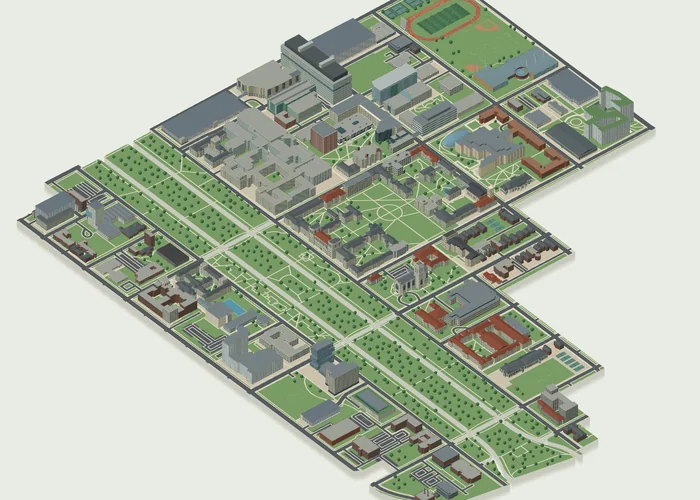
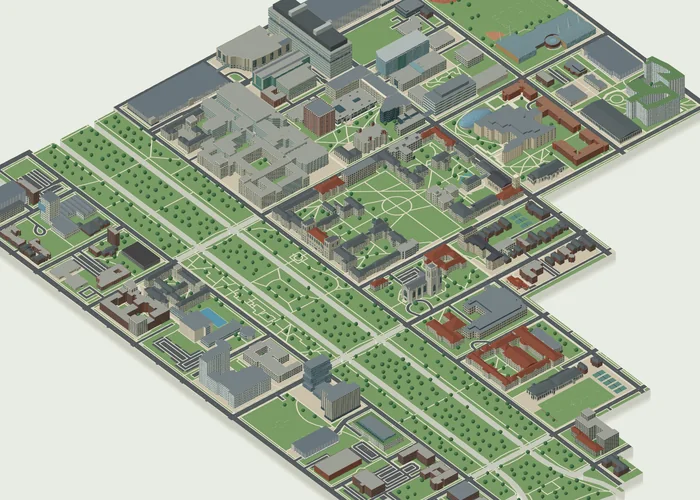
Release 26.10.18.5

diff --git a/index.html b/index.html
@@ -1,7 +1,7 @@
 <!doctype html>
 <html lang="en"><head><meta charset="utf-8"><meta name="viewport" content="width=device-width,initial-scale=1"><meta name="color-scheme" content="light"><meta name="theme-color" content="#f7f8f8">
 <title>Campus 3D Models | Explore Four University Campuses</title><meta name="description" content="Explore UChicago, UMich, UW and UC Santa Barbara through interactive 3D campus models. Discover architecture, landscapes, and layered Rhino and 3DS downloads."><meta name="robots" content="index,follow,max-image-preview:large"><link rel="canonical" href="https://arch.songming.org/">
-<meta property="og:type" content="website"><meta property="og:site_name" content="Campus 3D Models"><meta property="og:title" content="Campus 3D Models"><meta property="og:description" content="Four campuses. A different perspective. Explore UChicago, UMich, UW and UC Santa Barbara in 3D."><meta property="og:url" content="https://arch.songming.org/"><meta property="og:locale" content="en_US"><meta property="og:locale:alternate" content="zh_CN"><meta property="og:image" content="https://arch.songming.org/assets/images/social-preview.png?v=26.10.18.4"><meta property="og:image:width" content="1200"><meta property="og:image:height" content="630"><meta property="og:image:alt" content="Four architectural campus model previews from the Campus 3D Models collection."><meta name="twitter:card" content="summary_large_image"><meta name="twitter:title" content="Campus 3D Models"><meta name="twitter:description" content="Four campuses. A different perspective."><meta name="twitter:image" content="https://arch.songming.org/assets/images/social-preview.png?v=26.10.18.4">
+<meta property="og:type" content="website"><meta property="og:site_name" content="Campus 3D Models"><meta property="og:title" content="Campus 3D Models"><meta property="og:description" content="Four campuses. A different perspective. Explore UChicago, UMich, UW and UC Santa Barbara in 3D."><meta property="og:url" content="https://arch.songming.org/"><meta property="og:locale" content="en_US"><meta property="og:locale:alternate" content="zh_CN"><meta property="og:image" content="https://arch.songming.org/assets/images/social-preview.png?v=26.10.18.5"><meta property="og:image:width" content="1200"><meta property="og:image:height" content="630"><meta property="og:image:alt" content="Four architectural campus model previews from the Campus 3D Models collection."><meta name="twitter:card" content="summary_large_image"><meta name="twitter:title" content="Campus 3D Models"><meta name="twitter:description" content="Four campuses. A different perspective."><meta name="twitter:image" content="https://arch.songming.org/assets/images/social-preview.png?v=26.10.18.5">
 <link rel="icon" type="image/svg+xml" href="assets/brand/atlas.svg"><link rel="icon" type="image/png" sizes="32x32" href="assets/brand/icon-32.png"><link rel="apple-touch-icon" href="assets/brand/apple-touch-icon.png"><link rel="stylesheet" href="assets/site.css?v=26.10.18.2"><script defer src="assets/site.js"></script><script type="application/ld+json" id="schema">{"@context":"https://schema.org","@graph":[{"@type":"WebSite","@id":"https://arch.songming.org/#website","url":"https://arch.songming.org/","name":"Campus 3D Models","inLanguage":["en","zh-CN"]},{"@type":"CollectionPage","@id":"https://arch.songming.org/#collection","url":"https://arch.songming.org/","name":"Campus 3D Models","description":"Explore interactive 3D campus models of UChicago, UMich, UW and UC Santa Barbara.","isPartOf":{"@id":"https://arch.songming.org/#website"},"mainEntity":{"@type":"ItemList","numberOfItems":4,"itemListElement":[{"@type":"ListItem","position":1,"name":"University of Washington","url":"https://uw.arch.songming.org/"},{"@type":"ListItem","position":2,"name":"UC Santa Barbara","url":"https://ucsb.arch.songming.org/"},{"@type":"ListItem","position":3,"name":"University of Chicago","url":"https://uchi.arch.songming.org/"},{"@type":"ListItem","position":4,"name":"University of Michigan","url":"https://umich.arch.songming.org/"}]}}]}</script></head>
 <body id="top">
 <a href="#campuses" class="skip-link" data-i18n="skip">Skip to campus collection</a>
@@ -20,7 +20,7 @@
  <p class="project-features" data-i18n="ucsb.features">Campus Lagoon · Pacific coast · Isla Vista</p><span class="project-link"><span data-i18n="open">View model</span><span class="model-arrow" aria-hidden="true"><svg viewBox="0 0 16 24" width="16" height="24" focusable="false"><path d="M3 18 13 7M5.5 7H13v7.5"/></svg></span></span>
 </a><a class="campus-card" href="https://uchi.arch.songming.org/" target="_blank" rel="noopener" data-campus="uchi" id="project-uchi" aria-label="View University of Chicago model (opens in a new tab)">
  <div class="project-line"><span class="project-number">03</span><span data-i18n="uchi.location">Chicago, Illinois</span><span class="project-mark" aria-hidden="true"><svg viewBox="0 0 24 24" aria-hidden="true"><path d="M5 19 19 5M5 5h14v14"/></svg></span></div>
- <div class="card-image"><img src="assets/images/uchi-small.webp?v=26.10.18.4" srcset="assets/images/uchi-small.webp?v=26.10.18.4 700w, assets/images/uchi.webp?v=26.10.18.4 1400w" sizes="(max-width: 700px) 100vw, 50vw" width="1400" height="1000" alt="3D exterior model of the University of Chicago campus" loading="lazy" decoding="async"></div>
+ <div class="card-image"><img src="assets/images/uchi-small.webp?v=26.10.18.5" srcset="assets/images/uchi-small.webp?v=26.10.18.5 700w, assets/images/uchi.webp?v=26.10.18.5 1400w" sizes="(max-width: 700px) 100vw, 50vw" width="1400" height="1000" alt="3D exterior model of the University of Chicago campus" loading="lazy" decoding="async"></div>
  <div class="project-caption"><h3 data-i18n="uchi.name">University of Chicago</h3><span data-i18n="uchi.campus">Hyde Park campus</span></div>
  <p class="project-features" data-i18n="uchi.features">Main Quads · Midway Plaisance · Architectural landmarks</p><span class="project-link"><span data-i18n="open">View model</span><span class="model-arrow" aria-hidden="true"><svg viewBox="0 0 16 24" width="16" height="24" focusable="false"><path d="M3 18 13 7M5.5 7H13v7.5"/></svg></span></span>
 </a><a class="campus-card" href="https://umich.arch.songming.org/" target="_blank" rel="noopener" data-campus="umich" id="project-umich" aria-label="View University of Michigan model (opens in a new tab)">

diff --git a/docs/ASSET_SOURCES.md b/docs/ASSET_SOURCES.md
@@ -2,7 +2,7 @@
 
 Campus previews are exported renders from the corresponding local campus projects. They are used here as static navigation previews; interactive models remain on their own websites. The images are cropped/resized and encoded as WebP. Their original geometry and source attribution remain documented in each campus project.
 
[5 lines of base64/hex data omitted]

diff --git a/CHANGELOG.md b/CHANGELOG.md
@@ -1,5 +1,10 @@
 # Changelog
 
+## 26.10.18.5 — 2026-10-18
+
+- Tighten UChicago's preview crop to enlarge the campus by approximately 18% and reduce empty margins, retaining the original viewing angle and current full-model source image.
+- Refresh both thumbnail sizes and the UChicago share-image tile; preserve all other campus previews, collection order, content and styling.
+
 ## 26.10.18.4 — 2026-10-18
 
 - Refresh only UChicago's preview from the complete current campus model, including its optimized medical district, detailed Crerar Library, refined Science Quadrangle and optimized Harper Memorial Library, with the original browser camera, framing, crop and thumbnail sizes preserved.
